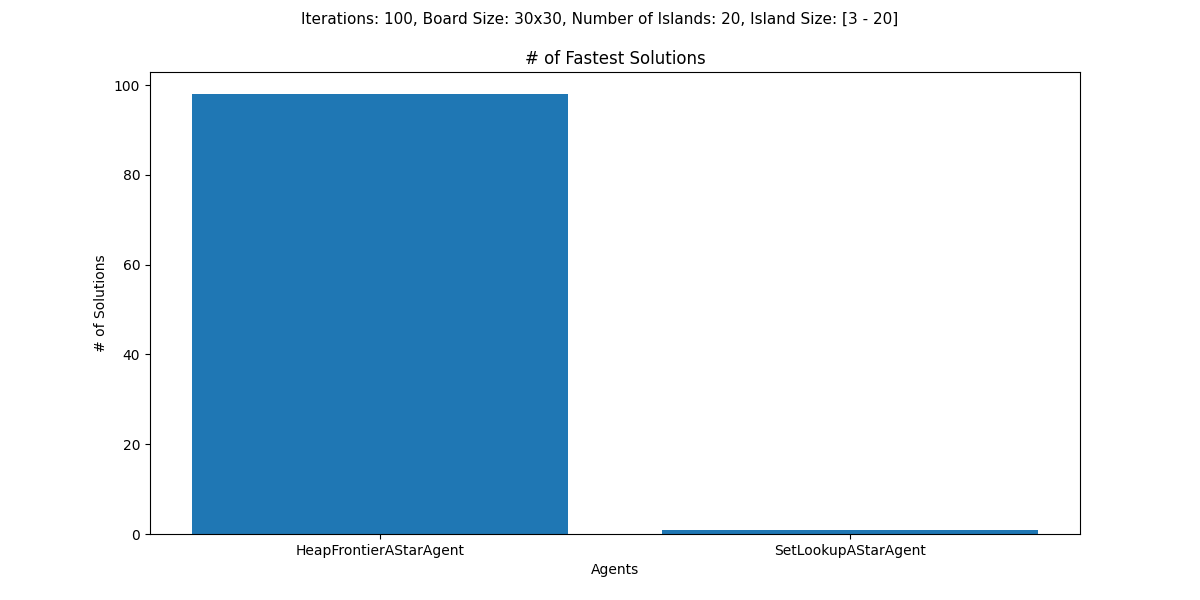
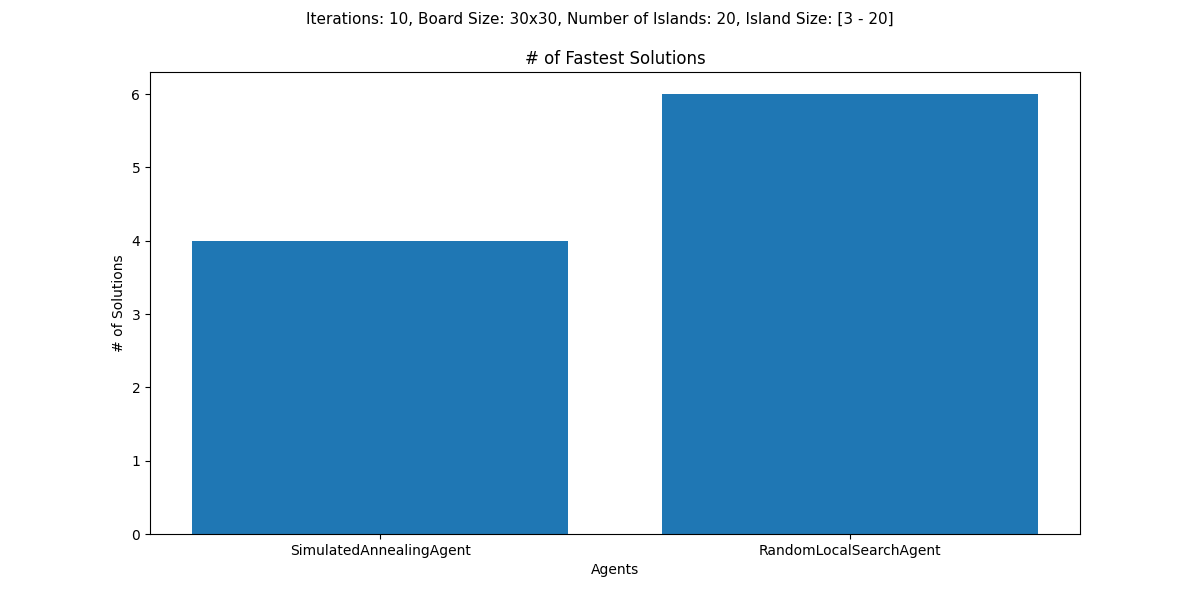
Added random agent, improve annealing?

diff --git a/agents.py b/agents.py
@@ -1,5 +1,6 @@
 import random
 import math
+import heapq
 
 class Agent():
     '''
@@ -478,7 +479,7 @@ class SimulatedAnnealingAgent(Agent):
             i, j = coord
             is_valid = 0 <= i < n and 0 <= j < n
             if is_valid and (not board[i][j] or board[i][j] == 1):
-                out.append(coord)
+                heapq.heappush(out, (self.heuristic(i, j), coord))
         return out
     
 
@@ -496,7 +497,7 @@ class SimulatedAnnealingAgent(Agent):
             self.no_solution = True
             return
         
-        # we've hit a high level of iterations but no solution.
+        # we've hit a high level of iterations but no solution, we are likely stuck
         # reset to bring back randomness
         if self.iterations > 1000:
             self.repeats += 1
@@ -515,16 +516,19 @@ class SimulatedAnnealingAgent(Agent):
                 for j in range(i):
                     weighted_choice.append(n - i)
 
-            next_idx = random.choice(weighted_choice)
-            next = self.frontier[next_idx]
-            
+            # next_idx = random.choice(weighted_choice)
+            # next = self.frontier[next_idx]
+
+            next = random.choice(self.frontier)
+            next_idx = self.frontier.index(next)
+
             delta = self.heuristic(coord[0], coord[1]) - self.heuristic(next[0], next[1])
 
             if delta > 0:
                 idx_to_pop = next_idx
                 coord = next
             elif random.random() < math.exp(delta / T):
-                idx_to_pop
+                idx_to_pop = next_idx
                 coord = next
         self.iterations += 1
         board[self.i][self.j] = 0
@@ -605,6 +609,56 @@ class GuidedLocalSearchAgent(Agent):
         self.i, self.j = coord
         board[self.i][self.j] = self
 
+
+class RandomLocalSearchAgent(Agent):
+    def __init__(self, color, i, j, goal_i, goal_j, board):
+        super().__init__(color, i, j, goal_i, goal_j, board)
+        self.moves = 0
+
+    def name(self):
+        return 'RandomLocalSearchAgent'
+    
+    def open_moves(self, board):
+        options = [
+            (self.i, self.j),
+            (self.i + 1, self.j),
+            (self.i + 1, self.j + 1),
+            (self.i + 1, self.j - 1),
+            (self.i, self.j + 1),
+            (self.i, self.j - 1),
+            (self.i - 1, self.j + 1),
+            (self.i - 1, self.j),
+            (self.i - 1, self.j - 1),
+        ]
+
+        out = []
+        n = len(board)
+        for coord in options:
+            i, j = coord
+            is_valid = 0 <= i < n and 0 <= j < n
+            if is_valid and (not board[i][j] or board[i][j] == 1):
+                out.append(coord)
+        return out
+
+    def move(self, board):
+        '''
+        Moves the given agent on the board.
+        '''
+        if self.is_goal() or self.no_solution or self.moves > 1000000:
+            return
+
+        self.moves += 1
+        self.frontier = self.open_moves(board)
+        
+        if not self.frontier:
+            self.no_solution = True
+            return
+        
+        coord = random.choice(self.frontier)
+
+        board[self.i][self.j] = 0
+        self.i, self.j = coord
+        board[self.i][self.j] = self
 
 if __name__ == '__main__':
     test = Agent((200, 200, 200), 0, 0, 10, 10)

diff --git a/testing.py b/testing.py
@@ -172,10 +172,10 @@ if __name__ == '__main__':
     # agents = [GuidedLocalSearchAgent, BidirectionalLocalSearchAgent]
     # agents = [AStarAgent, ObstacleAdjustmentAStarAgent]
     # agents = [MemoryLookupLocalSearchAgent, GuidedLocalSearchAgent]
-    agents = [HeapFrontierAStarAgent, SetLookupAStarAgent]
+    agents = [RandomLocalSearchAgent, SimulatedAnnealingAgent]
     # agents = [SetLookupCachedAStarAgent, OptimizedAStarAgent]
 
-    iterations = 100
+    iterations = 10
     board = b
     data = board.test(iterations, agents)
 

diff --git a/main.py b/main.py
@@ -28,7 +28,7 @@ def main(agent=Agent):
 # main()
 # main(GuidedLocalSearchAgent)
 # main(DelayedImprovementAgent)
-main(HeapFrontierAStarAgent)
+main(RandomLocalSearchAgent)
 
 # b = Board()
 # print(b.test(100, AStarAgent, BidirectionalSearchAgent, SimulatedAnnealingAgent))

diff --git a/optimized_agents.py b/optimized_agents.py
@@ -10,6 +10,8 @@ import heapq
     5. OptimizedLocalSearchAgent
 '''
 
+# class OptimizedSimulatedAnnealingAgent(SimulatedAnnealingAgent):
+
 class MemoryLookupLocalSearchAgent(Agent):
     '''
     This agent is a little silly. In order to reduce the number
